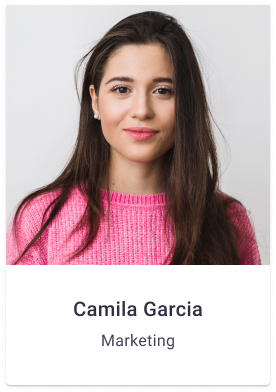
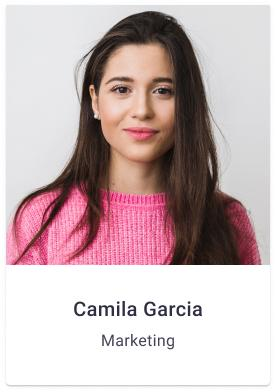
Images file changed. fixed errors in the index.html file.
In the images folder all raster images are optimized in the squoosh program.

diff --git a/index.html b/index.html
@@ -7,57 +7,89 @@
   </head>
   <body>
     <header>
-      <nav>
-        <a href="">webstudio</a>
-        <a href="">Studio</a>
-        <a href="">Portfolio</a>
-        <a href="">Contats</a>
+        <a href="">WebStudio</a>
+        <nav>
+          <ul>
+            <li>
+              <a href="" target="_blank">Studio</a>
+            </li>
+            <li>        
+              <a href="" target="_blank">Portfolio</a>
+            </li>
+            <li>
+              <a href="" target="_blank">Contats</a>
+            </li>
+          </ul>
       </nav>
-      <a href="mailto:info&commat;devstudio.com">info@devstudio.com</a>
-      <a href="tel:+11(000)111-11-11">+11(000)111-11-11</a>
+      <address>
+        <ul>
+          <li>        
+            <a href="mailto:info&commat;devstudio.com">info@devstudio.com</a>
+          </li>
+          <li>        
+            <a href="tel:+11(000)111-11-11">+11(000)111-11-11</a>
+          </li>
+        </ul>
+      </address>
     </header>
     <main>
-        <h1>Effective Solutions<br>for Your Bussines</h1>
-        <button type="button">Order Service</button>
       <section>
-        <h3>Strategy</h3>
-        <p>
-            Our goal is to identify the business <br>
-            problem to walk away with the <br>
-            perfect and creative solution.
-        </p>
-        <h3>Punctuality</h3>
-        <p>
-            Bring the key message to the <br>
-            brand's audience for the best price <br>
-            within the shortest possible time.
-        </p>
-        <h3>Diligence</h3>
-        <p>
-            Research and confirm brands that <br>
-            present the strongest digital growth <br>
-            opportunities and minimize risk.
-        </p>
-        <h3>Technologies</h3>
-        <p>
-            Design practice focused on digital <br>
-            experiences. We bring forth a deep <br>
-            passion for problem-solving.
-        </p>
+        <h1>Effective Solutions for Your Bussines</h1>
+        <button type="button">Order Service</button>
+      </section>
+      <section>
+        <h2></h2>
+        <ul>
+          <li>
+            <h3>Strategy</h3>
+            <p>
+                Our goal is to identify the business 
+                problem to walk away with the 
+                perfect and creative solution.
+            </p>
+    
+          </li>
+          <li>
+            <h3>Punctuality</h3>
+            <p>
+                Bring the key message to the 
+                brand's audience for the best price 
+                within the shortest possible time.
+            </p>
+    
+          </li>
+          <li>
+            <h3>Diligence</h3>
+            <p>
+                Research and confirm brands that 
+                present the strongest digital growth 
+                opportunities and minimize risk.
+            </p>
+    
+          </li>
+          <li>
+            <h3>Technologies</h3>
+            <p>
+                Design practice focused on digital 
+                experiences. We bring forth a deep 
+                passion for problem-solving.
+            </p>
+           </li>
+        </ul>
       </section>
       <section>
         <h2>Our Team</h2>
-        <img src="./images/prodact.jpg" alt="Mark Guerrero Prodact Designer">
-        <img src="./images/frontend.jpg" alt="Tom Ford Frontend Developer">
-        <img src="./images/marketing.jpg" alt="Camila Garcia Marketing">
-        <img src="./images/designer.jpg" alt="David Wilson UI Designer">
+        <img src="./images/prodact.jpg" alt="Mark Guerrero Prodact Designer" width="264" height="380">
+        <img src="./images/frontend.jpg" alt="Tom Ford Frontend Developer" width="264" height="380">
+        <img src="./images/marketing.jpg" alt="Camila Garcia Marketing" width="264" height="380">
+        <img src="./images/designer.jpg" alt="David Wilson UI Designer" width="264" height="380">
       </section>
     </main>
     <footer>
-        <a href="">webstudio</a> 
+        <a href="">WebStudio</a> 
         <p>
-            Increase the flow customers and <br>
-            sales for your business with digitl <br>
+            Increase the flow customers and 
+            sales for your business with digitl 
             marketing & growth solutions.
         </p>
     </footer>
